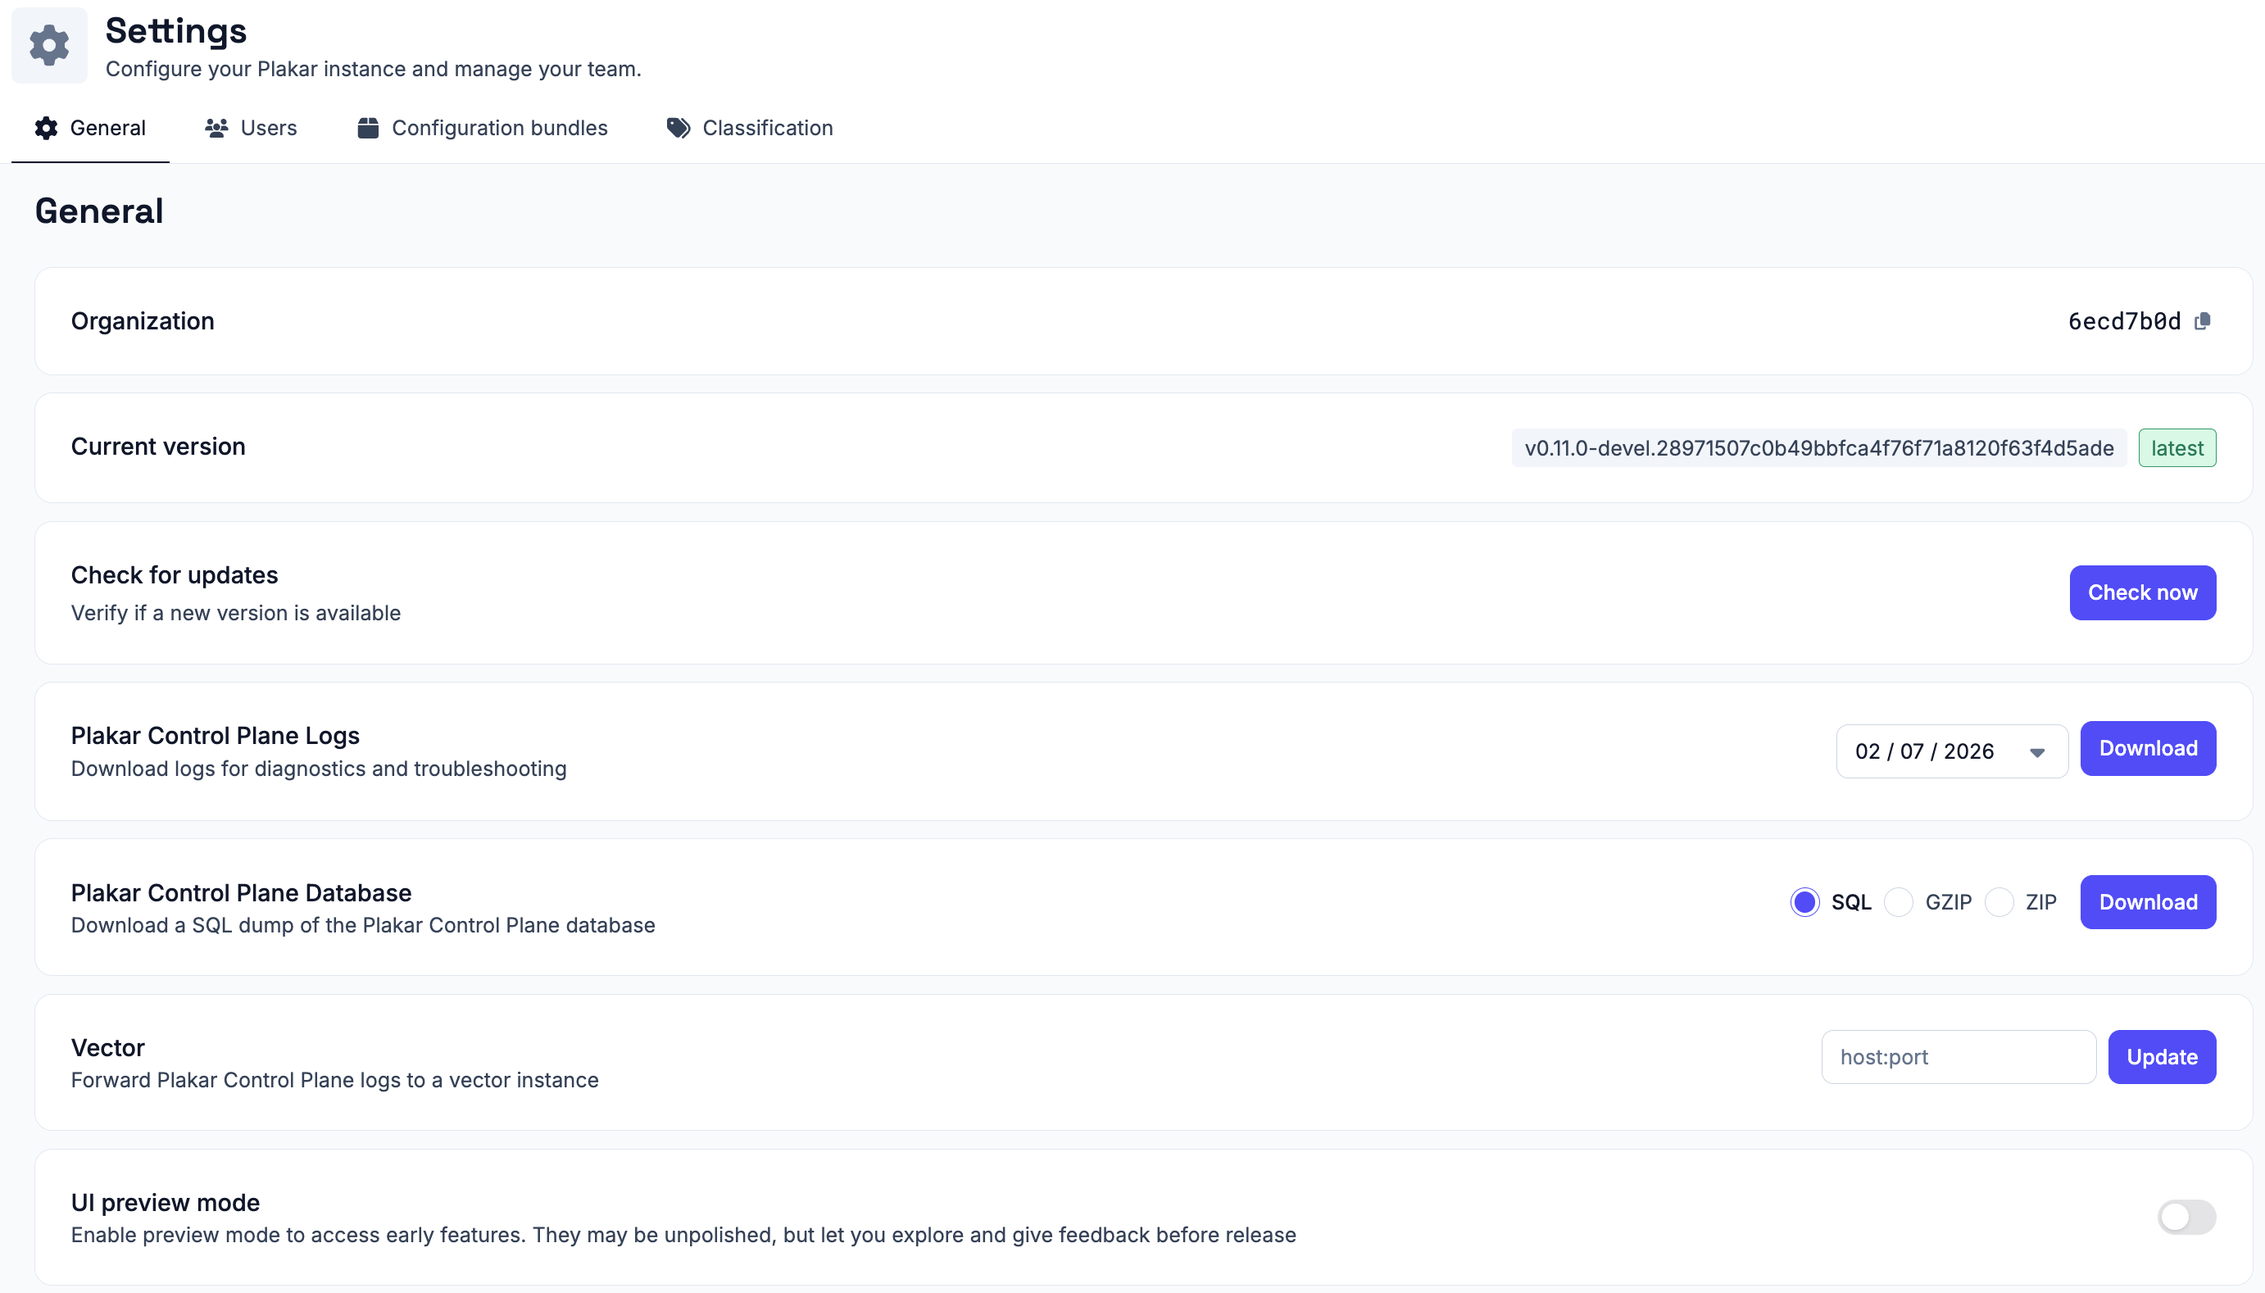
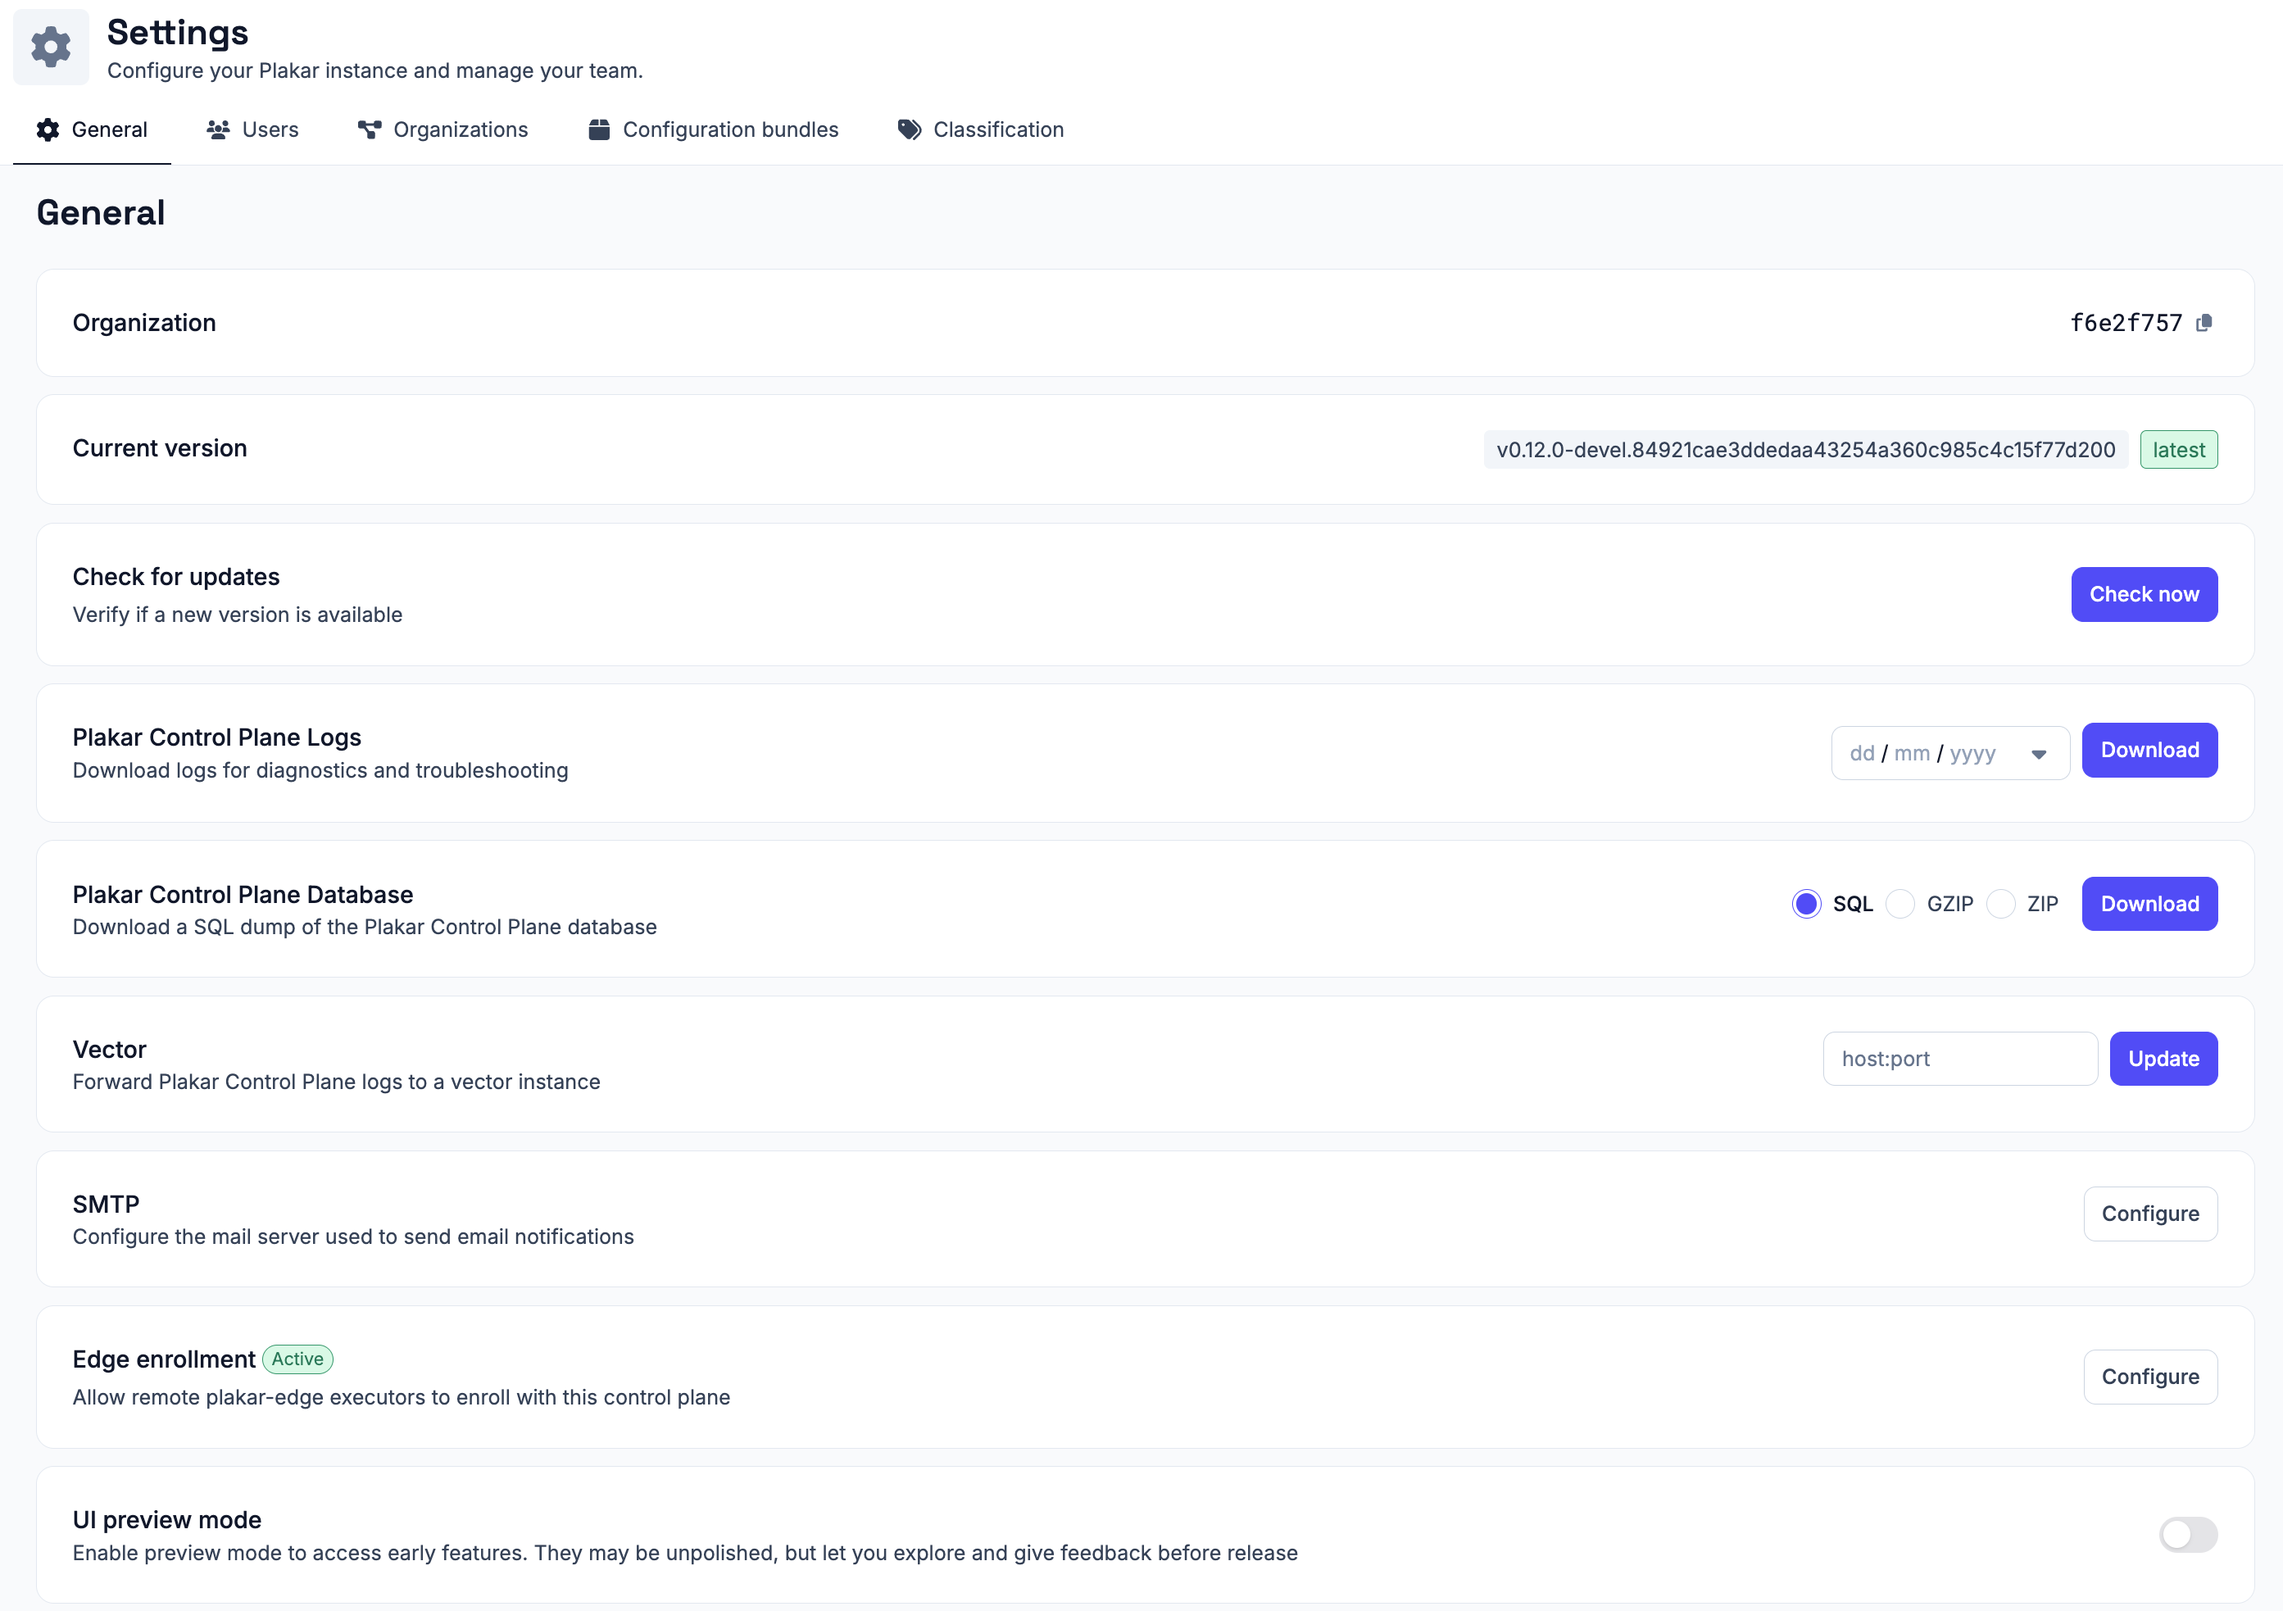
- update general settings - add smtp config settings

diff --git a/content/docs/control-plane/administration/general-settings.md b/content/docs/control-plane/administration/general-settings.md
@@ -11,6 +11,8 @@ The general settings page lets you check your instance's identity and version,
 download diagnostic data, forward logs to Vector, and manage early-access
 features.
 
+![Plakar Control Plane general settings](../images/general-settings.png)
+
 ## Organization
 
 Shows your organization's unique identifier.
@@ -48,9 +50,20 @@ a copy of the logs is forwarded there rather than replacing local processing.
 Enter the target instance's address as `host:port` and click **Update** to
 apply.
 
+## Email & SMTP
+
+Configure the SMTP server used by Plakar Control Plane to send outgoing emails,
+including notifications and other system-generated messages. See
+[Email & SMTP](../email-and-smtp) for configuration details.
+
+## Edge enrollment
+
+Enable edge enrollment to allow new edge executors to register with your Plakar
+Control Plane instance. Once enabled, you can generate or regenerate the
+enrollment key used during the initial registration process. See
+[Edges](../../infrastructure/edges) for more information.
+
 ## UI preview mode
 
 Enable preview mode to access early features. They may be unpolished, but let
 you explore them and give feedback before release.
-
-![Plakar Control Plane general settings](../images/general-settings.png)

diff --git a/content/docs/control-plane/administration/email-and-smtp.md b/content/docs/control-plane/administration/email-and-smtp.md
@@ -1,0 +1,26 @@
+---
+title: "Email & SMTP"
+date: "2026-07-13T00:00:00Z"
+weight: 2
+summary: "Configure SMTP for email notifications."
+draft: true
+---
+
+# Email & SMTP
+
+Plakar Control Plane can send email notifications using an `SMTP` server. This
+can be configured under **General Settings**.
+
+Provide the hostname, port, authentication credentials (if required), and the
+sender email address that should appear in outgoing messages. If your SMTP
+server supports encrypted connections, enable **TLS** to secure communication
+between Plakar Control Plane and the mail server.
+
+Leaving the **Host** field empty removes the SMTP configuration and disables
+email delivery.
+
+{{< figure src="../images/smtp-settings.png" class="max-w-100 mx-auto" alt="SMTP server configuration" >}}
+
+Once configured, this SMTP server is used for all emails sent by your Plakar
+Control Plane instance. The only exception is the initial enrollment email used
+during first-time setup, which is sent before an SMTP server can be configured.

diff --git a/content/docs/control-plane/administration/updating-control-plane/_index.md b/content/docs/control-plane/administration/updating-control-plane/_index.md
@@ -1,7 +1,7 @@
 ---
 title: "Updating Control Plane"
 date: "2026-05-13T00:00:00Z"
-weight: 2
+weight: 3
 summary:
   "How to update Plakar Control Plane and its underlying deployment
   infrastructure."

diff --git a/content/docs/control-plane/administration/backup-and-restore/_index.md b/content/docs/control-plane/administration/backup-and-restore/_index.md
@@ -1,7 +1,7 @@
 ---
 title: "Backup and Restore"
 date: "2026-06-11T00:00:00Z"
-weight: 3
+weight: 4
 summary:
   "How to back up and restore the Plakar Control Plane configuration and data."
 ---
